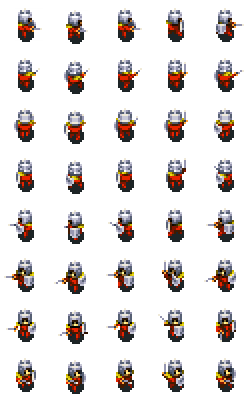
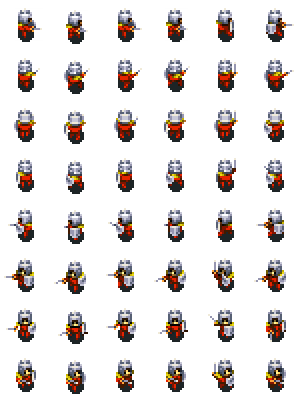
프레임워크작업
팔라딘 스프라이트이미지 부자연스럽던 부분 수정
파이참으로 팔라딘 이미지 띄우기 및 방향키로 방향전환

diff --git a/Miniwatch/main_state.py b/Miniwatch/main_state.py
@@ -26,28 +26,31 @@ class Grass:
 
 
 
-class Boy:
+class Hero:
     def __init__(self):
-        self.x, self.y = 0, 90
+        self.x, self.y = 400, 300
         self.frame = 0
-        self.image = load_image('run_animation.png')
-        self.dir = 1
+        self.image = load_image('Resource\Character\Paladin.png')
+        self.dir = 1      #0 = 우하, 1 = 하, 2 = 좌하, 3 = 좌, 4 = 좌상, 5 = 상, 6 = 우상, 7 = 우
+        self.action = 0     #움직임 판단용
+
 
     def update(self):
-        self.frame = (self.frame + 1) % 8
-        self.x += self.dir
-        if self.x >= 800:
-            self.dir = -1
-        elif self.x <= 0:
-            self.dir = 1
+        self.frame = (self.frame + 1) % 4
+        delay(0.15)
+#        self.x += self.dir
+#        if self.x >= 800:
+#            self.dir = -1
+#        elif self.x <= 0:
+#            self.dir = 1
 
     def draw(self):
-        self.image.clip_draw(self.frame * 100, 0, 100, 100, self.x, self.y)
+        self.image.clip_draw(self.frame * 50, self.dir * 50, 50, 50, self.x, self.y)
 
 
 def enter():
     global boy, grass
-    boy = Boy()
+    boy = Hero()
     grass = Grass()
 
 
@@ -66,13 +69,35 @@ def resume():
 
 
 def handle_events():
+    global boy
     events = get_events()
     for event in events:
         if event.type == SDL_QUIT:
             game_framework.quit()
-        elif event.type == SDL_KEYDOWN and event.key == SDLK_ESCAPE:
-            game_framework.stack(title_state)
-
+        elif event.type == SDL_KEYDOWN:
+            if event.key == SDLK_ESCAPE:
+                game_framework.change_state(title_state)
+            elif event.key == SDLK_DOWN:#하
+                boy.dir = 1
+                boy.y -= 3
+            elif event.key == SDLK_3:#좌하
+                boy.dir = 2
+            elif event.key == SDLK_LEFT:#좌
+                boy.dir = 3
+                boy.x -= 3
+            elif event.key == SDLK_9:#좌상
+                boy.dir = 4
+            elif event.key == SDLK_UP:#상
+                boy.dir = 5
+                boy.y += 3
+            elif event.key == SDLK_7:#우상
+                boy.dir = 6
+            elif event.key == SDLK_RIGHT  :#우
+                boy.dir = 7
+                boy.x += 3
+            elif event.key == SDLK_1:#우하
+                boy.dir = 0
+            Crashcheck() #벽과의 충돌체크
 
 def update():
     boy.update()
@@ -85,5 +110,13 @@ def draw():
     update_canvas()
 
 
-
-
+def Crashcheck(): #벽과의 충돌체크
+    global boy
+    if boy.x > 780:
+        boy.x = 780
+    elif boy.x < 20:
+        boy.x = 20
+    elif boy.y > 580:
+        boy.y = 580
+    elif boy.y < 20:
+        boy.y = 20
